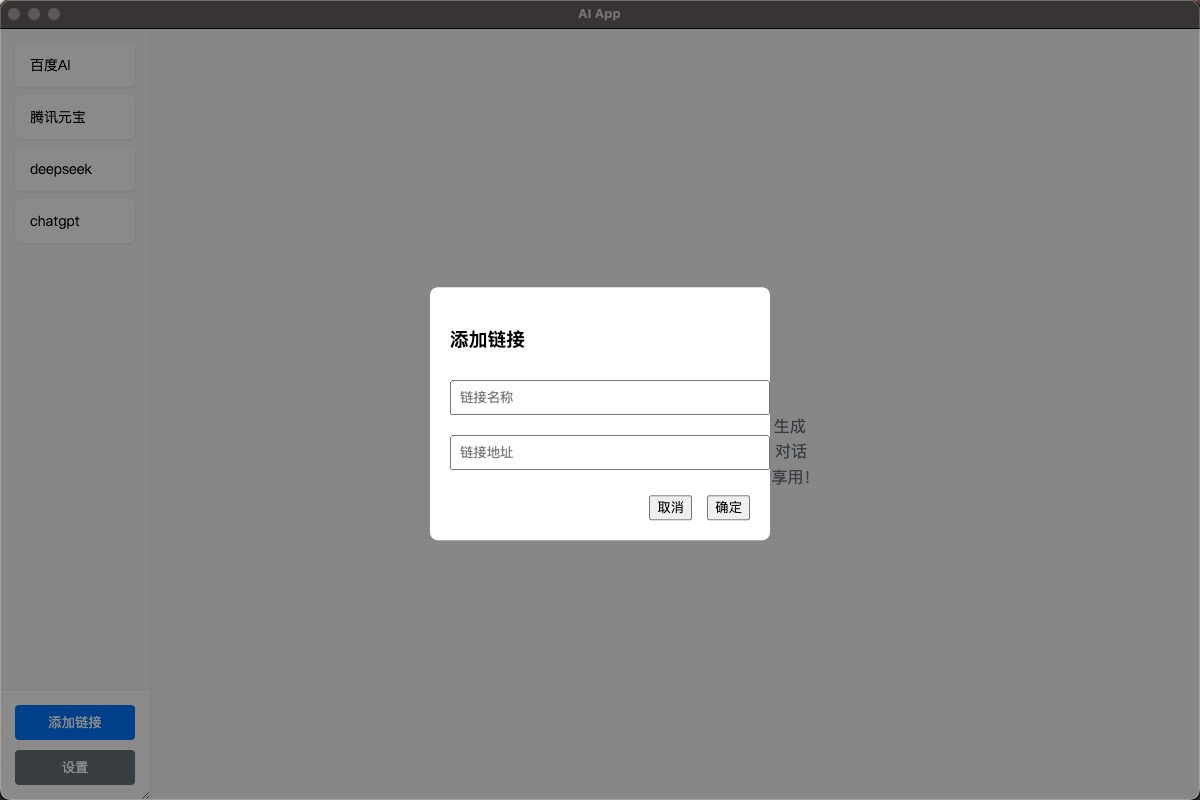
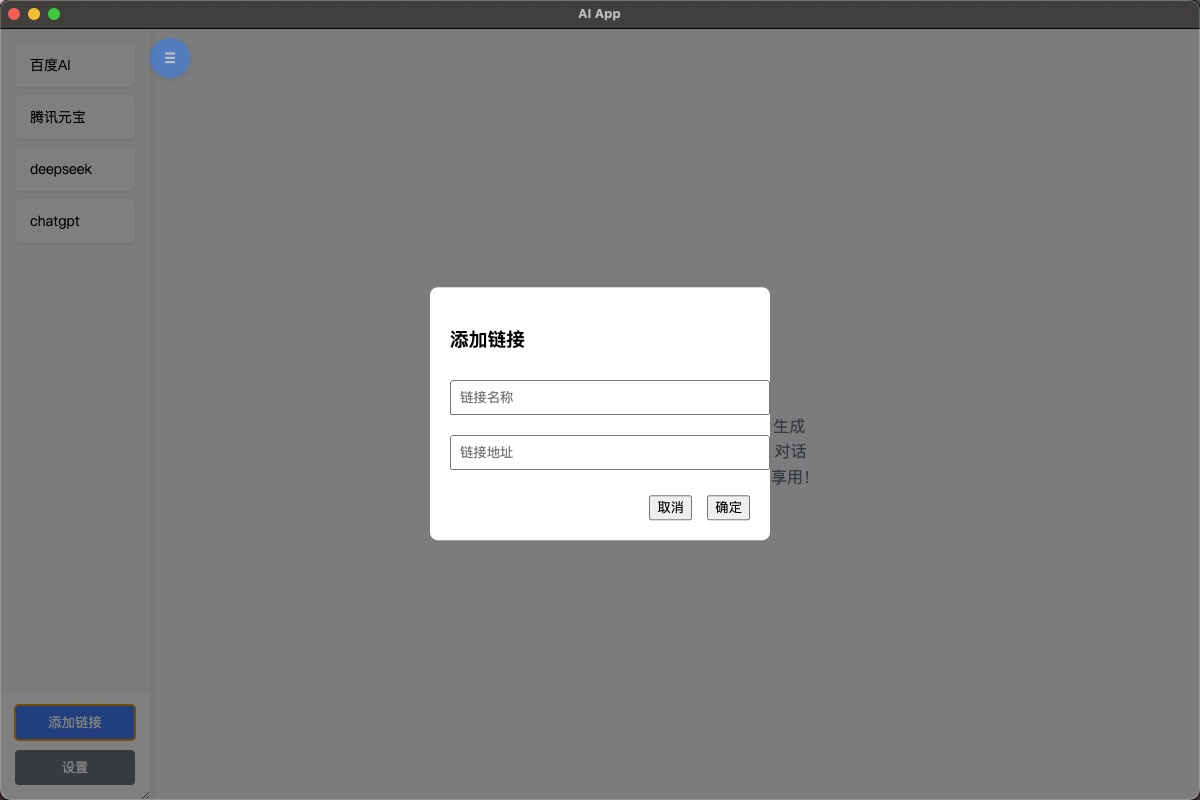
更新界面

diff --git a/CHANGELOG.md b/CHANGELOG.md
@@ -1,8 +1,8 @@
 ## 版本迭代
 
-### 1.0.3 @develop
+### 1.0.3
 
-- [x] 可显隐链接栏 
+- [x] 可显隐链接栏
 
 ### 1.0.2
 

diff --git a/README.md b/README.md
@@ -9,3 +9,4 @@
 ![](docs/ui1.jpg)
 ![](docs/ui2.jpg)
 ![](docs/ui3.jpg)
+![](docs/ui4.jpg)
